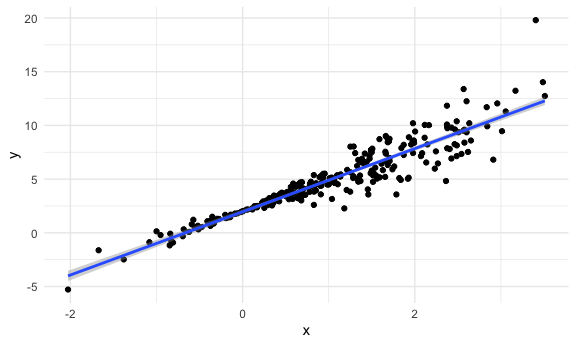
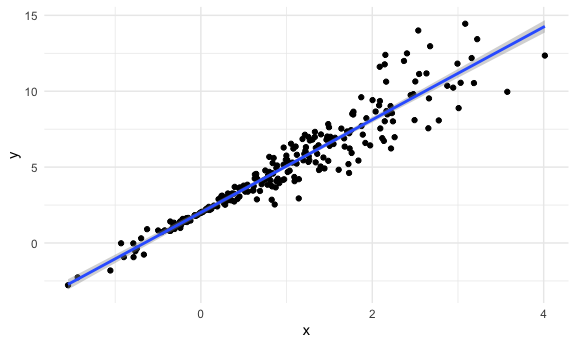
bootstrapped and analyzed results!!!

diff --git a/bootstrapping.md b/bootstrapping.md
@@ -85,8 +85,8 @@ lm(y ~ x, data = sim_df_const) %>% broom::tidy()
     ## # A tibble: 2 x 5
     ##   term        estimate std.error statistic   p.value
     ##   <chr>          <dbl>     <dbl>     <dbl>     <dbl>
-    ## 1 (Intercept)     1.78    0.0955      18.6 4.91e- 49
-    ## 2 x               3.04    0.0647      47.0 1.58e-125
+    ## 1 (Intercept)     1.99    0.0886      22.5 8.04e- 62
+    ## 2 x               3.05    0.0638      47.7 5.41e-127
 
 ``` r
 lm(y ~ x, data = sim_df_nonconst) %>% broom::tidy()
@@ -95,8 +95,8 @@ lm(y ~ x, data = sim_df_nonconst) %>% broom::tidy()
     ## # A tibble: 2 x 5
     ##   term        estimate std.error statistic   p.value
     ##   <chr>          <dbl>     <dbl>     <dbl>     <dbl>
-    ## 1 (Intercept)     1.96    0.110       17.8 3.88e- 46
-    ## 2 x               2.94    0.0746      39.5 7.19e-109
+    ## 1 (Intercept)     2.01    0.0890      22.6 4.02e- 62
+    ## 2 x               3.06    0.0641      47.7 7.87e-127
 
 ## Draw one bootstrap sample
 
@@ -119,10 +119,6 @@ boot_sample(sim_df_nonconst) %>%  #把 sim_df_nonconst 代入function中的df
 
     ## `geom_smooth()` using formula 'y ~ x'
 
-    ## Warning: Removed 2 rows containing non-finite values (stat_smooth).
-
-    ## Warning: Removed 2 rows containing missing values (geom_point).
-
 <img src="bootstrapping_files/figure-gfm/unnamed-chunk-5-1.png" width="90%" />
 
 ``` r
@@ -134,5 +130,105 @@ boot_sample(sim_df_nonconst) %>%
     ## # A tibble: 2 x 5
     ##   term        estimate std.error statistic   p.value
     ##   <chr>          <dbl>     <dbl>     <dbl>     <dbl>
-    ## 1 (Intercept)     2.08    0.105       19.8 7.27e- 53
-    ## 2 x               2.83    0.0704      40.3 9.75e-111
+    ## 1 (Intercept)     1.96    0.100       19.6 3.11e- 52
+    ## 2 x               3.06    0.0696      44.0 4.72e-119
+
+## Many samples and analysis
+
+``` r
+boot_straps = 
+  tibble(
+    strap_number = 1:1000,
+    strap_sample = rerun(1000, boot_sample(sim_df_nonconst))
+  )
+```
+
+Can I run my analysis on these…?
+
+``` r
+boot_results = 
+  boot_straps %>% 
+  mutate(
+    models = map(.x = strap_sample, ~lm(y ~ x, data = .x)),
+    results = map(models, broom::tidy)
+  ) %>% 
+  select(strap_number, results) %>% 
+  unnest(results)
+```
+
+What do I have now?
+
+``` r
+boot_results %>% 
+  group_by(term) %>% 
+    summarize(
+      mean_est = mean(estimate),
+      sd_est = sd(estimate)
+    )
+```
+
+    ## `summarise()` ungrouping output (override with `.groups` argument)
+
+    ## # A tibble: 2 x 3
+    ##   term        mean_est sd_est
+    ##   <chr>          <dbl>  <dbl>
+    ## 1 (Intercept)     2.01 0.0506
+    ## 2 x               3.06 0.0859
+
+Look at the distributions
+
+``` r
+boot_results %>% 
+  filter(term == "x") %>% 
+  ggplot(aes(x = estimate)) +
+  geom_density()
+```
+
+<img src="bootstrapping_files/figure-gfm/unnamed-chunk-10-1.png" width="90%" />
+
+Construct bootstrap CI
+
+``` r
+boot_results %>% 
+  group_by(term) %>% 
+  summarize(
+    ci_lower = quantile(estimate, 0.025),
+    ci_upper = quantile(estimate, 0.975)
+  )
+```
+
+    ## `summarise()` ungrouping output (override with `.groups` argument)
+
+    ## # A tibble: 2 x 3
+    ##   term        ci_lower ci_upper
+    ##   <chr>          <dbl>    <dbl>
+    ## 1 (Intercept)     1.91     2.10
+    ## 2 x               2.89     3.23
+
+## Bootstrap using modelr
+
+Can I simplify anything ..? YES
+
+``` r
+sim_df_nonconst %>% #change the datasets also works for the same codes
+  bootstrap(1000, id = "strap_number") %>% 
+    mutate(
+    models = map(.x = strap, ~lm(y ~ x, data = .x)),
+    results = map(models, broom::tidy)
+  ) %>% 
+  select(strap_number, results) %>% 
+  unnest(results) %>% 
+  group_by(term) %>% 
+    summarize(
+      mean_est = mean(estimate),
+      sd_est = sd(estimate)
+    )
+```
+
+    ## `summarise()` ungrouping output (override with `.groups` argument)
+
+    ## # A tibble: 2 x 3
+    ##   term        mean_est sd_est
+    ##   <chr>          <dbl>  <dbl>
+    ## 1 (Intercept)     2.01 0.0498
+    ## 2 x               3.05 0.0851
